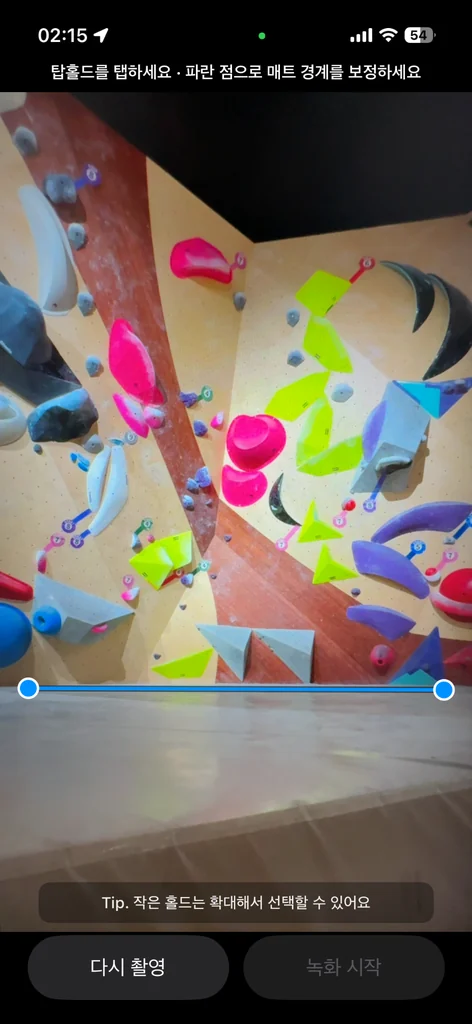
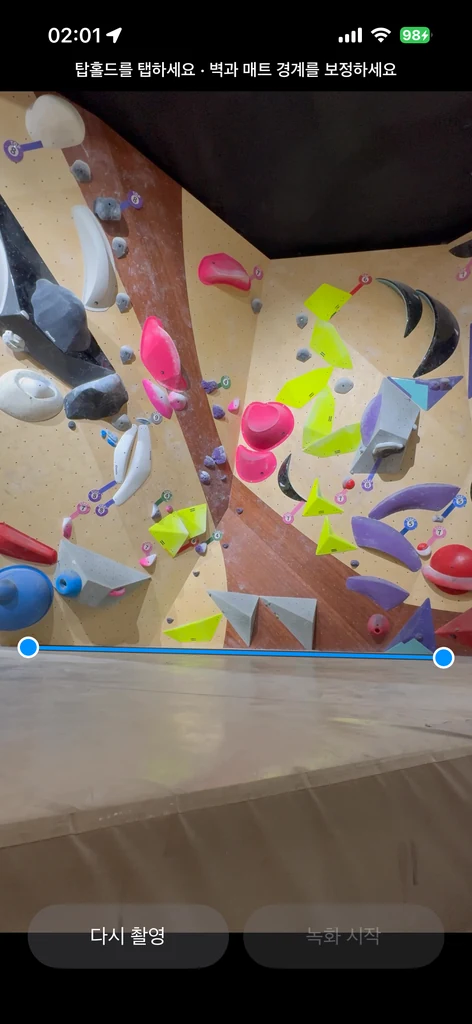
빌드 17과 포트폴리오 에셋 최신화

diff --git a/portfolio/index.html b/portfolio/index.html
@@ -48,7 +48,7 @@
 </div>
 <dl aria-label="프로젝트 요약" class="hero-meta">
 <div><dt>Product</dt><dd>Climbing Video Automation</dd></div>
-<div><dt>Release</dt><dd>v2.0 · iOS build 16 · Android versionCode 16</dd></div>
+<div><dt>Release</dt><dd>v2.0 · iOS build 17 · Android versionCode 17</dd></div>
 <div><dt>Status</dt><dd>iOS · Android Release</dd></div>
 </dl>
 </div>
@@ -116,7 +116,7 @@
 <div><span>Scope</span><strong>제품 전략 · UX 설계 · iOS/Android 개발 · QA · 배포 운영</strong></div>
 <div><span>iOS</span><strong>Swift · UIKit · AVFoundation · Vision · Core ML</strong></div>
 <div><span>Android</span><strong>Kotlin · Jetpack Compose · CameraX · LiteRT · ONNX Runtime</strong></div>
-<div><span>Release</span><strong>v2.0 · iOS build 16 · Android versionCode 16 · Privacy &amp; License Compliance</strong></div>
+<div><span>Release</span><strong>v2.0 · iOS build 17 · Android versionCode 17 · Privacy &amp; License Compliance</strong></div>
 </div>
 </div>
 </section>
@@ -206,11 +206,11 @@
 </ul>
 </div>
 <div class="case-media dual-screens">
-<figure><img alt="매트 경계선 보정 화면" loading="lazy" src="assets/setup-mat.webp"/><figcaption>MobileSAM 자동 경계 이후 수동 보정</figcaption></figure>
-<figure><img alt="탑홀드와 매트 경계가 설정된 화면" loading="lazy" src="assets/setup-selected.webp"/><figcaption>보정된 경계를 촬영 판단 기준으로 적용</figcaption></figure>
+<figure><img alt="MobileSAM이 제안한 자동 매트 경계 화면" loading="lazy" src="assets/after-sam.webp"/><figcaption>MobileSAM이 제안한 자동 매트 경계</figcaption></figure>
+<figure><img alt="사용자가 매트 경계를 직접 보정한 화면" loading="lazy" src="assets/after-sam-edit.webp"/><figcaption>사용자가 직접 보정한 최종 매트 경계</figcaption></figure>
 </div>
 </article>
-<article class="case-card reveal">
+<article class="case-card text-only reveal">
 <div class="case-copy">
 <p class="case-index">02 · START &amp; FINISH</p>
 <h3>화면 변화는 탐색 신호로 제한하고,<br/>등반 판단은 신체 관절 관계로 검증했습니다</h3>
@@ -225,11 +225,8 @@
 <li>매트 복귀는 종료 확인에 사용하고 실제 결과 후보는 최고점 또는 탑홀드 최접근 시점으로 분리</li>
 </ul>
 </div>
-<div class="case-media single-screen focus-bottom">
-<figure><img alt="주변 사람이 화면을 지나간 장면이 포함된 감지 결과 화면" loading="lazy" src="assets/review-noise.webp"/><figcaption>주변 인물과 배경 노이즈가 존재하는 필드 환경</figcaption></figure>
-</div>
 </article>
-<article class="case-card reveal">
+<article class="case-card text-only reveal">
 <div class="case-copy">
 <p class="case-index">03 · POSE RECOVERY</p>
 <h3>일시적 관절 유실을 종료로 확정하지 않고,<br/>복구 가능한 상태로 모델링했습니다</h3>
@@ -242,10 +239,6 @@
 <li>Android는 최초 움직임 영역과 추적 관절 영역을 각각 1.5배 확장한 정사각형 ROI로 갱신하고, iOS는 활성 촬영 영역을 최대 384px로 축소해 Vision 입력으로 사용</li>
 <li>정상 종료 후 유효 포즈 2회 연속 미검출 시 초기 Motion 탐색으로 복귀</li>
 </ul>
-</div>
-<div class="case-media dual-screens">
-<figure><img alt="두 번째 감지 구간 결과 화면" loading="lazy" src="assets/review-segment2.webp"/><figcaption>복구 정책 적용 후 개별 구간 보존</figcaption></figure>
-<figure><img alt="세 번째 감지 구간 결과 화면" loading="lazy" src="assets/review-segment3.webp"/><figcaption>복구 이후 다음 등반 탐색으로 전환</figcaption></figure>
 </div>
 </article>
 <article class="case-card reveal">
@@ -263,7 +256,7 @@
 </ul>
 </div>
 <div class="case-media single-screen focus-bottom">
-<figure><img alt="감지 구간 확인과 다시 촬영 버튼이 있는 리뷰 화면" loading="lazy" src="assets/review-finish.webp"/><figcaption>구간 검토에서 촬영 재진입까지 연결한 다시 촬영 동선</figcaption></figure>
+<figure><img alt="구간 검토 화면에서 다시 촬영을 선택하는 경고창" loading="lazy" src="assets/after-examine.webp"/><figcaption>구간 검토에서 촬영 재진입까지 연결한 다시 촬영 동선</figcaption></figure>
 </div>
 </article>
 <article class="case-card reveal">
@@ -364,16 +357,19 @@
 </div>
 <div class="result-grid">
 <article class="result-card reveal">
-<figure class="result-image"><img alt="탑홀드 마스크와 감지 구간을 편집하는 결과 화면" loading="lazy" src="assets/review-mask.webp"/></figure>
+<figure class="result-image"><img alt="드래그 속도에 따라 구간을 정밀하게 조정하는 결과 화면" loading="lazy" src="assets/drag-speed.webp"/></figure>
 <div class="result-copy"><span>VELOCITY-SENSITIVE TRIM</span><h3>드래그 속도에 따라 0.1초 정밀 모드로 전환</h3><p>직접 촬영 영상을 편집하면서 종료점을 움직인 뒤 재생 위치가 구간의 마지막으로 이동해, 끝점이 의도대로 조정됐는지 확인하기 불편하다는 점을 발견했습니다. 빠르게 움직일 때는 넓은 범위를 탐색하고 천천히 조작하면 0.1초 단위로 미세 조정하며, 손을 떼면 시작점은 해당 위치부터, 종료점은 3초 전부터 자동 재생해 수정 전후의 맥락을 바로 확인하도록 개선했습니다.</p></div>
 </article>
-<article class="result-card reveal" data-delay="80">
-<figure class="result-image"><img alt="선택된 구간을 2.5배 확대해 편집하는 화면" loading="lazy" src="assets/review-zoom.webp"/></figure>
+<article class="result-card comparison-card reveal" data-delay="80">
+<div class="result-image result-image-pair">
+<figure><img alt="전체 타임라인에서 선택 구간을 확인하는 1배 화면" loading="lazy" src="assets/timeline-zoom1.webp"/><figcaption>1.0× · 전체 구간</figcaption></figure>
+<figure><img alt="선택 구간을 확대한 3.1배 타임라인 화면" loading="lazy" src="assets/timeline-zoom2.webp"/><figcaption>3.1× · 선택 구간 확대</figcaption></figure>
+</div>
 <div class="result-copy"><span>CONTEXTUAL TIMELINE ZOOM</span><h3>긴 세션에서도 선택 구간의 조작 면적을 확보</h3><p>10분 이상의 원본에서 수초 길이의 등반 구간이 지나치게 작아지는 문제를 해결하기 위해 전체 타임라인과 확대 타임라인을 분리했습니다. 작은 배율 손잡이를 정확히 누르지 않아도 트랙의 원하는 위치를 탭하거나 진동 없이 곧바로 드래그할 수 있도록 iOS와 Android의 입력 범위도 통일했습니다.</p></div>
 </article>
 <article class="result-card reveal" data-delay="160">
-<figure class="result-image focus-bottom"><img alt="감지 구간 확인과 다시 촬영 버튼이 있는 결과 화면" loading="lazy" src="assets/review-finish.webp"/></figure>
-<div class="result-copy"><span>STATE-PRESERVING RETAKE</span><h3>실패 원인을 확인한 화면에서 바로 다시 촬영</h3><p>클라이머 피드백을 반영해, 실패 구간을 확인한 뒤 ‘다시 촬영’을 누르면 카메라 구도, 매트 경계, 탑홀드와 촬영 옵션을 유지한 채 다음 시도를 준비하도록 재촬영 경로를 단축했습니다.</p></div>
+<figure class="result-image"><img alt="앱 안에서 갤러리에 저장된 영상을 확인하는 화면" loading="lazy" src="assets/video-check.webp"/></figure>
+<div class="result-copy"><span>VERIFIED GALLERY PLAYBACK</span><h3>피드백을 반영한 앱 내 저장 영상 확인</h3><p>저장이 끝났다는 메시지만으로는 실제 결과를 확신하기 어렵다는 사용자 의견을 반영했습니다. 시스템 갤러리에 생성된 바로 그 영상을 다시 조회해 앱 안에서 재생하고, 탐색 바와 앞뒤 이동으로 필요한 장면을 곧바로 확인할 수 있도록 저장 이후의 흐름까지 연결했습니다.</p></div>
 </article>
 </div>
 </div>

diff --git a/portfolio/styles.css b/portfolio/styles.css
@@ -352,6 +352,7 @@ code { font-family: ui-monospace, SFMono-Regular, Menlo, monospace; color: var(-
 .screen-card img { aspect-ratio: 472 / 1024; }
 
 .case-card { grid-template-columns: minmax(0, 1.2fr) minmax(280px, .8fr); }
+.case-card.text-only { grid-template-columns: 1fr; }
 .case-media { display: grid; justify-content: center; }
 .case-media figure { width: 100%; max-width: 230px; border-radius: 22px; box-shadow: 0 18px 48px rgba(0,0,0,.26); transform: none !important; }
 .case-media img { width: 100%; height: auto; aspect-ratio: 472 / 1024; object-fit: cover; }
@@ -391,6 +392,7 @@ code { font-family: ui-monospace, SFMono-Regular, Menlo, monospace; color: var(-
 .screenshot-device { width: min(268px, 68vw); border-width: 5px; border-radius: 34px; box-shadow: 0 24px 62px rgba(27,34,44,.28); }
 
 .result-card { grid-template-columns: 300px minmax(0, 1fr); min-height: 420px; }
+.result-card.comparison-card { grid-template-columns: minmax(380px, .95fr) minmax(0, 1.05fr); }
 .result-image { min-height: 0; padding: 28px; display: grid; place-items: center; background: #E7EAF0; }
 .result-image img {
   width: min(230px, 100%);
@@ -399,6 +401,19 @@ code { font-family: ui-monospace, SFMono-Regular, Menlo, monospace; color: var(-
   object-fit: cover;
   border-radius: 20px;
   box-shadow: 0 18px 48px rgba(27,34,44,.18);
+}
+.result-image-pair {
+  grid-template-columns: repeat(2, minmax(0, 1fr));
+  align-items: center;
+  gap: 16px;
+}
+.result-image-pair figure { display: grid; gap: 10px; margin: 0; }
+.result-image-pair img { width: 100%; }
+.result-image-pair figcaption {
+  color: var(--slate-1);
+  font-size: 12px;
+  font-weight: 800;
+  text-align: center;
 }
 .result-copy { padding: 46px; }
 .result-copy h3 { font-size: 32px; }
@@ -409,6 +424,7 @@ code { font-family: ui-monospace, SFMono-Regular, Menlo, monospace; color: var(-
   .case-card { grid-template-columns: 1fr; }
   .case-media { margin-inline: auto; }
   .result-card { grid-template-columns: 260px 1fr; }
+  .result-card.comparison-card { grid-template-columns: minmax(340px, .9fr) minmax(0, 1.1fr); }
 }
 
 @media (max-width: 700px) {
@@ -420,8 +436,10 @@ code { font-family: ui-monospace, SFMono-Regular, Menlo, monospace; color: var(-
   .single-screen { width: min(210px, 100%); }
   .parity-strip { display: grid; gap: 10px; }
   .result-card { grid-template-columns: 1fr; }
+  .result-card.comparison-card { grid-template-columns: 1fr; }
   .result-image { padding: 24px; }
   .result-image img { width: min(210px, 70vw); }
+  .result-image-pair img { width: 100%; }
   .result-copy { padding: 30px 26px 36px; }
   .result-copy h3 { font-size: 28px; }
 }

diff --git a/iOS/TopOut/V2_0_BUILD_17_NOTES.md b/iOS/TopOut/V2_0_BUILD_17_NOTES.md
@@ -1,0 +1,20 @@
+# TopOut iOS v2.0 (build 17)
+
+## 릴리스 기준
+
+- Marketing Version: `2.0`
+- Current Project Version: `17`
+
+## 주요 변경 사항
+
+- 한국어 촬영·선택·결과 안내를 간략화 이전의 자세한 문구로 복원
+- 다른 8개 언어의 간결한 문구와 상단 안내·하단 Tip의 한 줄 자동 축소 유지
+- 탑홀드 분석을 매트 분석과 별도로 5초 제한하고, 시간 초과·모델 오류·빈 결과에는 탭 위치의 기본 원형 마스크 사용
+- 늦게 끝난 탑홀드 분석 결과가 현재 선택을 덮어쓰지 않도록 요청 상태 보호
+- Vision 다중 인물 추적에서 중심 거리 40% 상한을 제거하고 관절 경계·중심 거리·유효 관절 수의 상대 순위로 대상 연속성 판단
+
+## 릴리스 전 확인
+
+- 한국어 상단 안내와 Tip이 한 줄 자동 축소 안에서 전체 의미를 표시하는지 확인
+- 탑홀드 분석 제한 시간 이후 기본 원이 표시되고 녹화를 이어갈 수 있는지 확인
+- App Store 업로드 전 Marketing Version `2.0`, Current Project Version `17` 확인

diff --git a/Android/TopOut/V2_0_BUILD_17_NOTES.md b/Android/TopOut/V2_0_BUILD_17_NOTES.md
@@ -1,0 +1,19 @@
+# TopOut Android v2.0 (versionCode 17)
+
+## 릴리스 기준
+
+- Version name: `2.0`
+- Google Play versionCode: `17`
+
+## 주요 변경 사항
+
+- 한국어 촬영·선택·결과 안내를 간략화 이전의 자세한 문구로 복원
+- 다른 8개 언어의 간결한 문구와 상단 안내·하단 Tip의 한 줄 자동 축소 유지
+- 탑홀드 분석을 매트 분석과 별도로 5초 제한하고, 시간 초과·모델 오류·빈 결과에는 탭 위치의 기본 원형 마스크 사용
+- 늦게 끝난 ONNX 분석 결과가 현재 선택을 덮어쓰지 않도록 요청 상태 보호
+
+## 릴리스 전 확인
+
+- 한국어 상단 안내와 Tip이 한 줄 자동 축소 안에서 전체 의미를 표시하는지 확인
+- 탑홀드 분석 제한 시간 이후 기본 원이 표시되고 녹화를 이어갈 수 있는지 확인
+- Google Play 업로드 전 versionName `2.0`, versionCode `17` 확인

diff --git a/Android/TopOut/OPTIMIZATION_AUDIT.md b/Android/TopOut/OPTIMIZATION_AUDIT.md
@@ -1,6 +1,6 @@
 # Android optimization audit — v1.4 (build 5)
 
-> 이 문서는 v1.4 build 5 최적화부터 이어진 감사 기록입니다. 현재 릴리스는 [v2.0 versionCode 16](V2_0_BUILD_16_NOTES.md)이며 최신 동작은 [Android README](README.md)를 기준으로 합니다.
+> 이 문서는 v1.4 build 5 최적화부터 이어진 감사 기록입니다. 현재 릴리스는 [v2.0 versionCode 17](V2_0_BUILD_17_NOTES.md)이며 최신 동작은 [Android README](README.md)를 기준으로 합니다.
 
 The original optimization pass kept behavior unchanged. Later tracking-alignment notes below remain historical context.
 

diff --git a/iOS/TopOut/OPTIMIZATION_AUDIT.md b/iOS/TopOut/OPTIMIZATION_AUDIT.md
@@ -1,6 +1,6 @@
 # iOS optimization audit — v1.4 (build 5)
 
-> 이 문서는 v1.4 build 5 최적화부터 이어진 감사 기록입니다. 현재 릴리스는 [v2.0 build 16](V2_0_BUILD_16_NOTES.md)이며 최신 동작은 [iOS README](README.md)를 기준으로 합니다.
+> 이 문서는 v1.4 build 5 최적화부터 이어진 감사 기록입니다. 현재 릴리스는 [v2.0 build 17](V2_0_BUILD_17_NOTES.md)이며 최신 동작은 [iOS README](README.md)를 기준으로 합니다.
 
 The original optimization pass kept behavior unchanged. Later platform-alignment notes below remain historical context.
 
